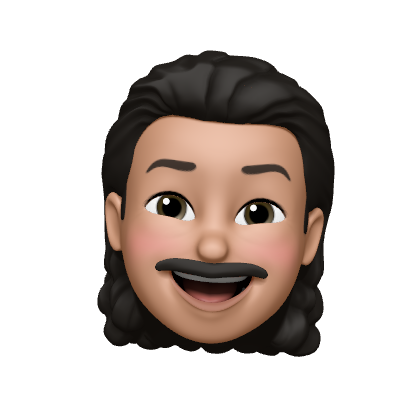
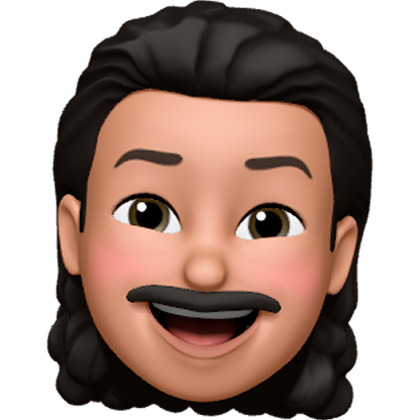
Fixing memoji

diff --git a/assets/css/styles.css b/assets/css/styles.css
@@ -51,11 +51,15 @@ button {
 
 .light-mode .nav-rail,
 .light-mode .mobile-nav-rail {
-  background-color: #f2f6fa;
+  background-color: #ffffff;
 }
 
 .light-mode .nav-rail__icon:hover {
   background-color: #c7cacf;
+}
+
+.light-mode .section__container {
+  background-color: #f2f6fa;
 }
 
 /* Desktop header */
@@ -368,6 +372,12 @@ button {
 
 #sobre div.section__container {
   display: block;
+  padding-left: 8rem;
+  padding-right: 8rem;
+}
+
+#sobre h1.section-tittle {
+  margin-bottom: 3rem;
 }
 
 .about-containers {
@@ -420,10 +430,12 @@ button {
 
 .about-pic {
   animation: float 6s ease-in-out infinite;
+  height: 20rem;
+  width: 20rem;
 }
 
-.icon {
-  font-size: 1.6rem;
+#sobre .material-symbols-outlined {
+  font-size: 1.6rem !important;
 }
 
 .about-me-text {
